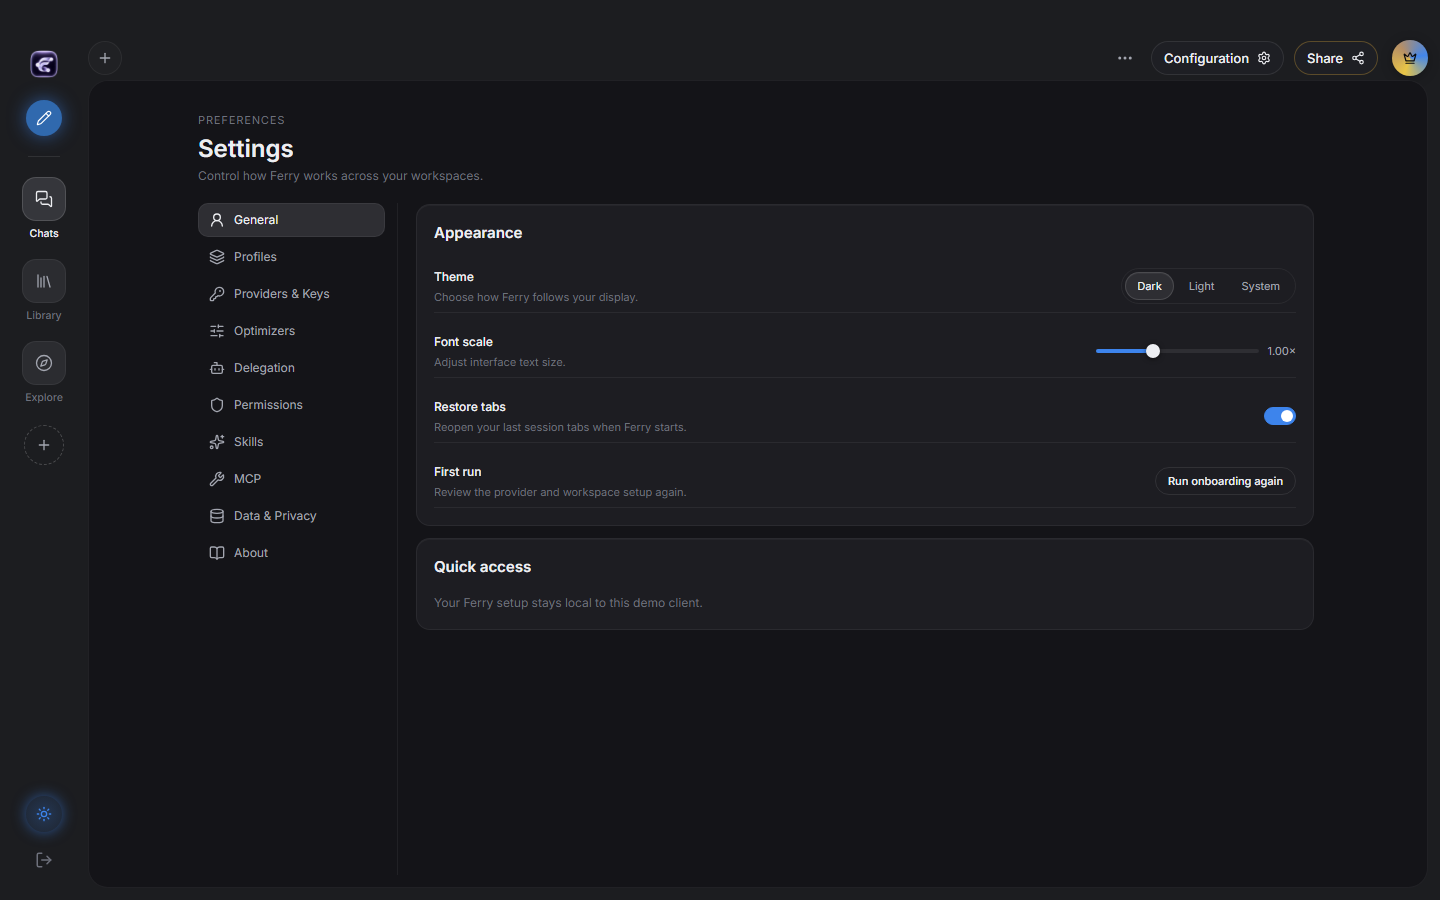
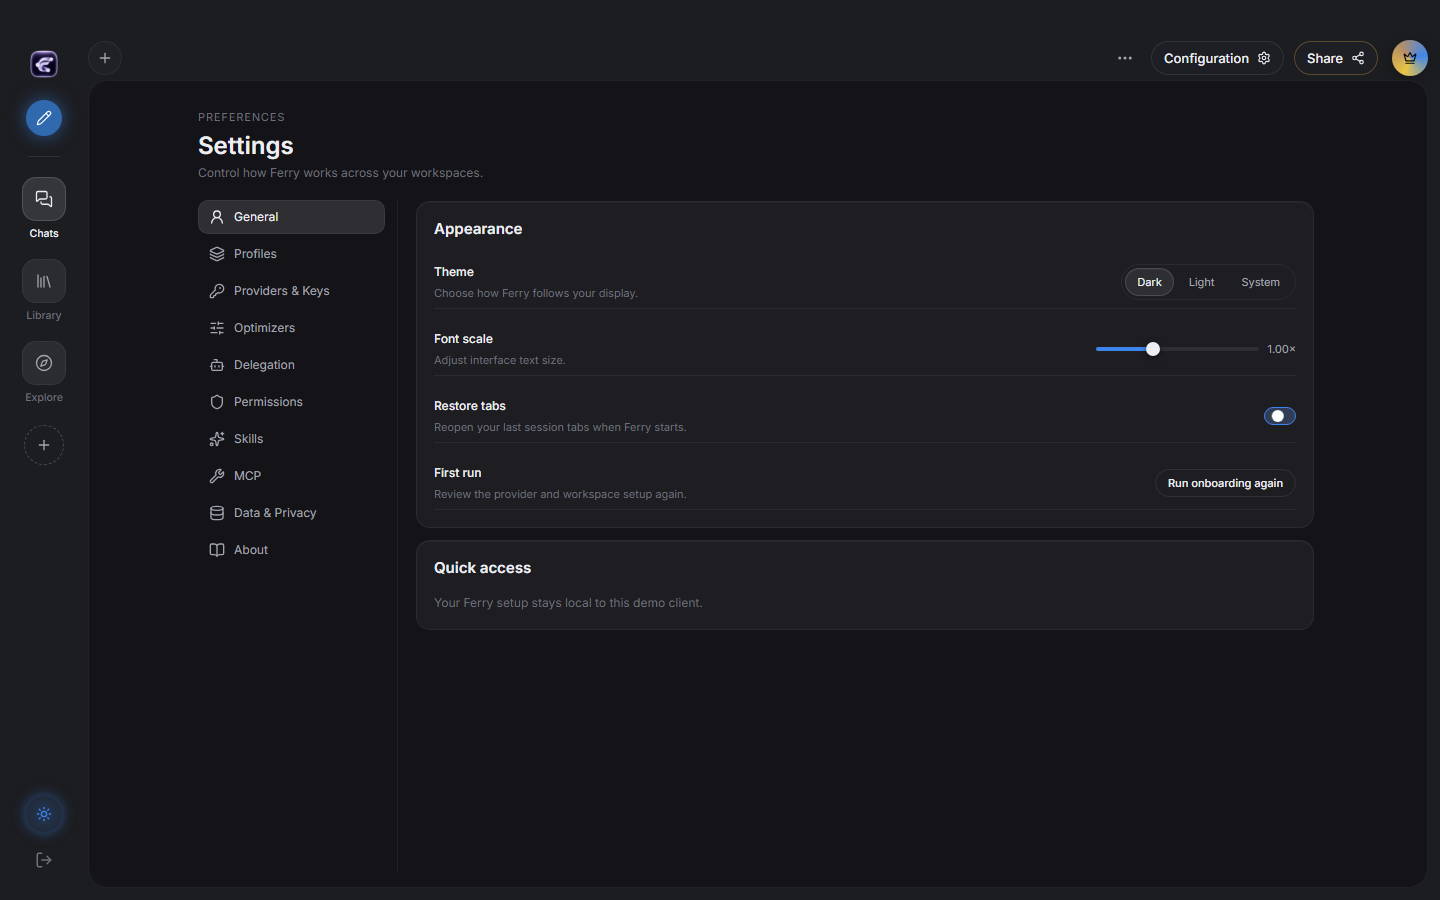
fix(ui): base body text is 13/20 per DESIGN §2.7; form controls inherit (no stray 16px text)

diff --git a/packages/ui/src/styles/index.css b/packages/ui/src/styles/index.css
@@ -71,6 +71,20 @@
     -moz-osx-font-smoothing: grayscale;
   }
 
+  /* DESIGN §2.7: the UI's default text is `body` (13/20). Anything without an explicit size
+     class inherits this instead of the browser's 16px. Form controls inherit too. */
+  body {
+    font-size: var(--text-body);
+    line-height: var(--text-body--line-height);
+  }
+  button,
+  input,
+  select,
+  textarea {
+    font-size: inherit;
+    line-height: inherit;
+  }
+
   ::selection {
     background: var(--blue-500);
     color: var(--text-1);
